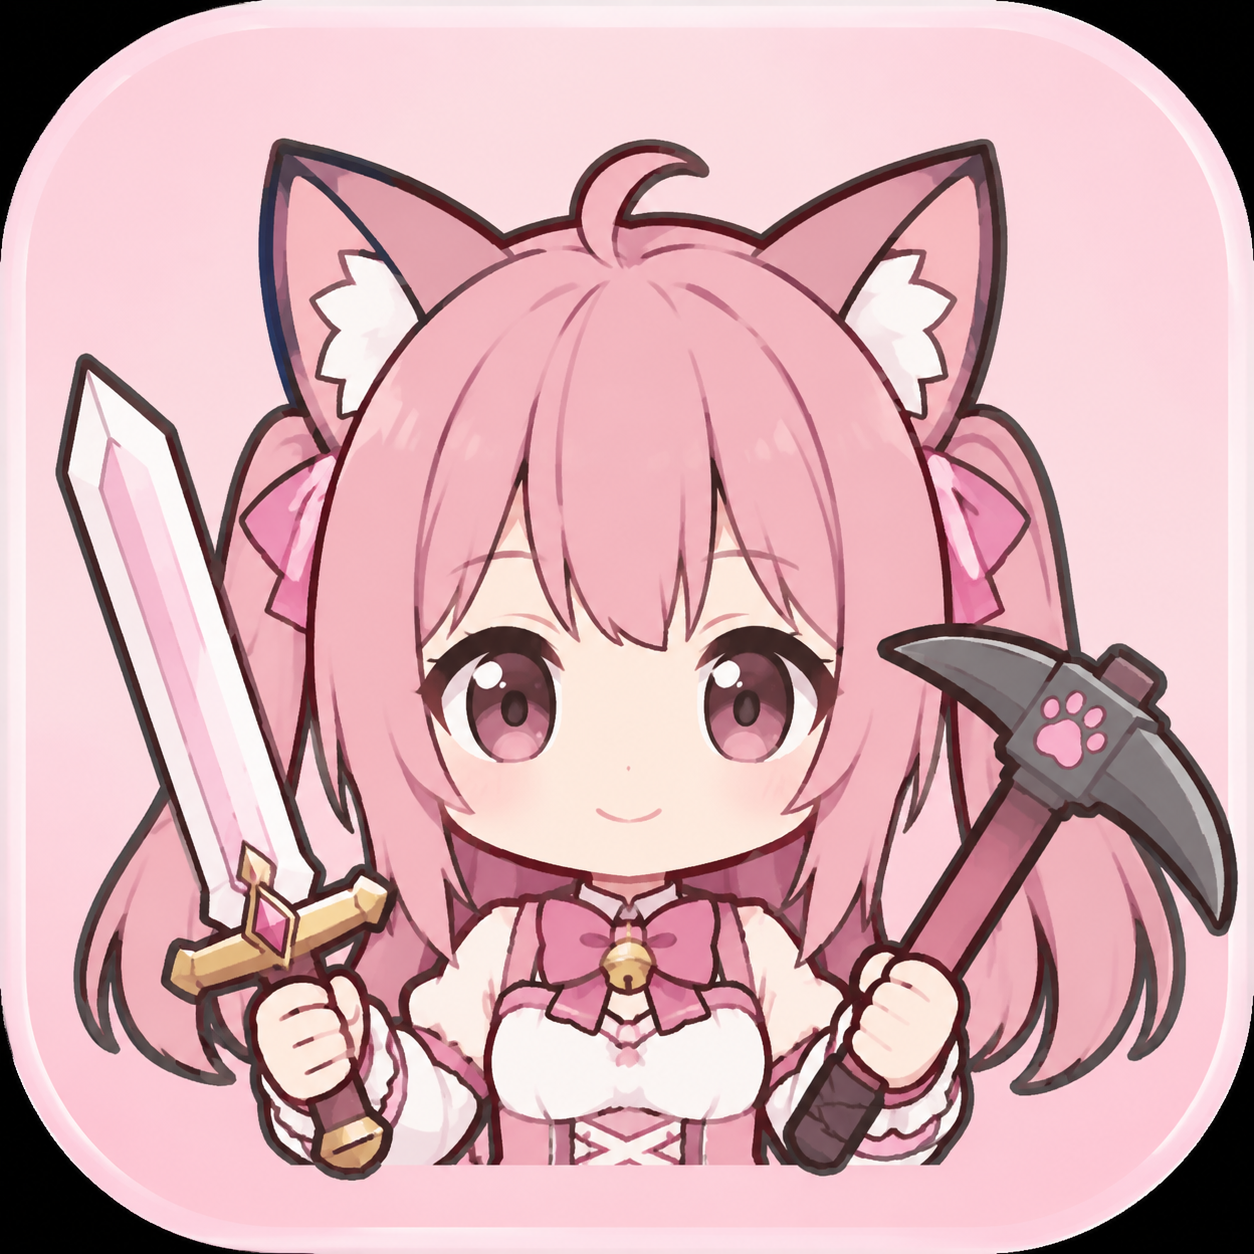
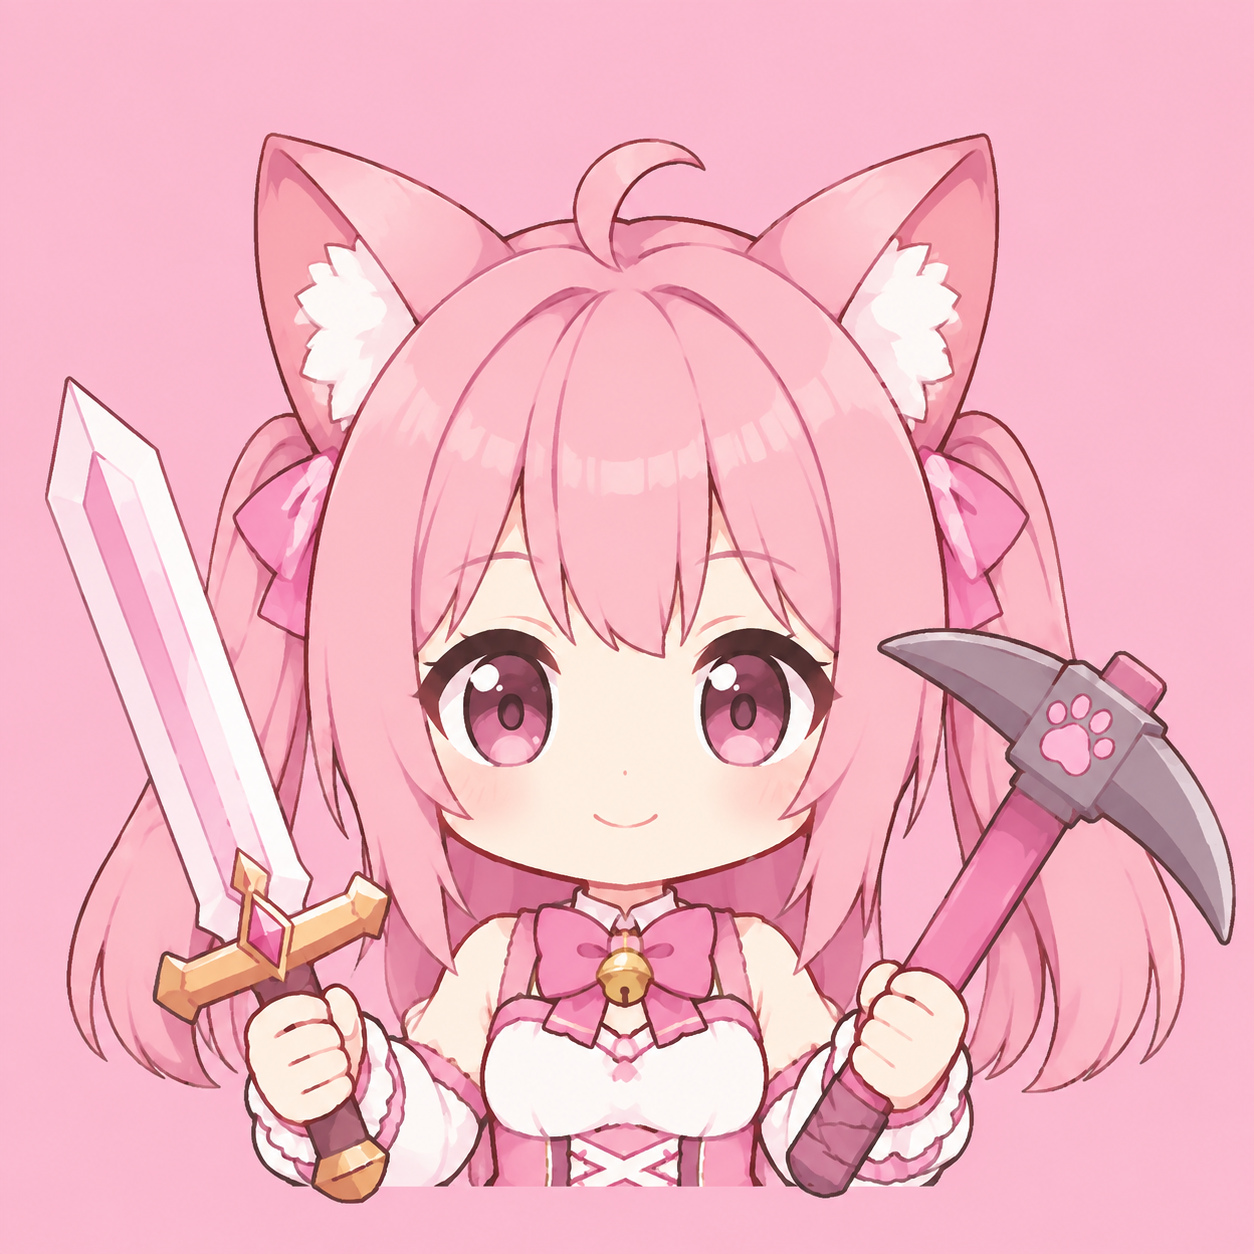
feat: V1.2.0 新版图标 + 首个Release
- 替换全新icon.png并重新生成全部密度启动图标
- 顶部白色通知替代Snackbar
- 图标安全区适配 + 浏览器跳转修复

diff --git a/app/src/main/java/com/mrkuzumi/polish/MainActivity.kt b/app/src/main/java/com/mrkuzumi/polish/MainActivity.kt
@@ -83,7 +83,7 @@ private fun MainApp() {
     var updateInfo by remember { mutableStateOf<UpdateInfo?>(null) }
     var showUpdateDialog by rememberSaveable { mutableStateOf(false) }
     LaunchedEffect(Unit) {
-        val info = checkForUpdate("1.1.9")
+        val info = checkForUpdate("1.2.0")
         if (info.available) { updateInfo = info; showUpdateDialog = true }
     }
 
@@ -109,7 +109,7 @@ private fun MainApp() {
                             MainTab.Profile -> ProfileScreen(
                                 dataVersion = dataVersion,
                                 showSnackbar = notify,
-                                onManualUpdateCheck = { checkForUpdate("1.1.9") },
+                                onManualUpdateCheck = { checkForUpdate("1.2.0") },
                             )
                         }
                     }

diff --git a/app/src/main/java/com/mrkuzumi/polish/ui/ProfileScreen.kt b/app/src/main/java/com/mrkuzumi/polish/ui/ProfileScreen.kt
@@ -272,7 +272,7 @@ fun ProfileScreen(
             text = {
                 Column {
                     if (info.available) Text(info.releaseNotes, style = MaterialTheme.typography.bodyMedium, color = cs.onSurfaceVariant, maxLines = 20, textAlign = TextAlign.Start)
-                    else Text("当前版本 V1.1.9 已是最新。", color = cs.onSurfaceVariant)
+                    else Text("当前版本 V1.2.0 已是最新。", color = cs.onSurfaceVariant)
                 }
             },
             confirmButton = {
